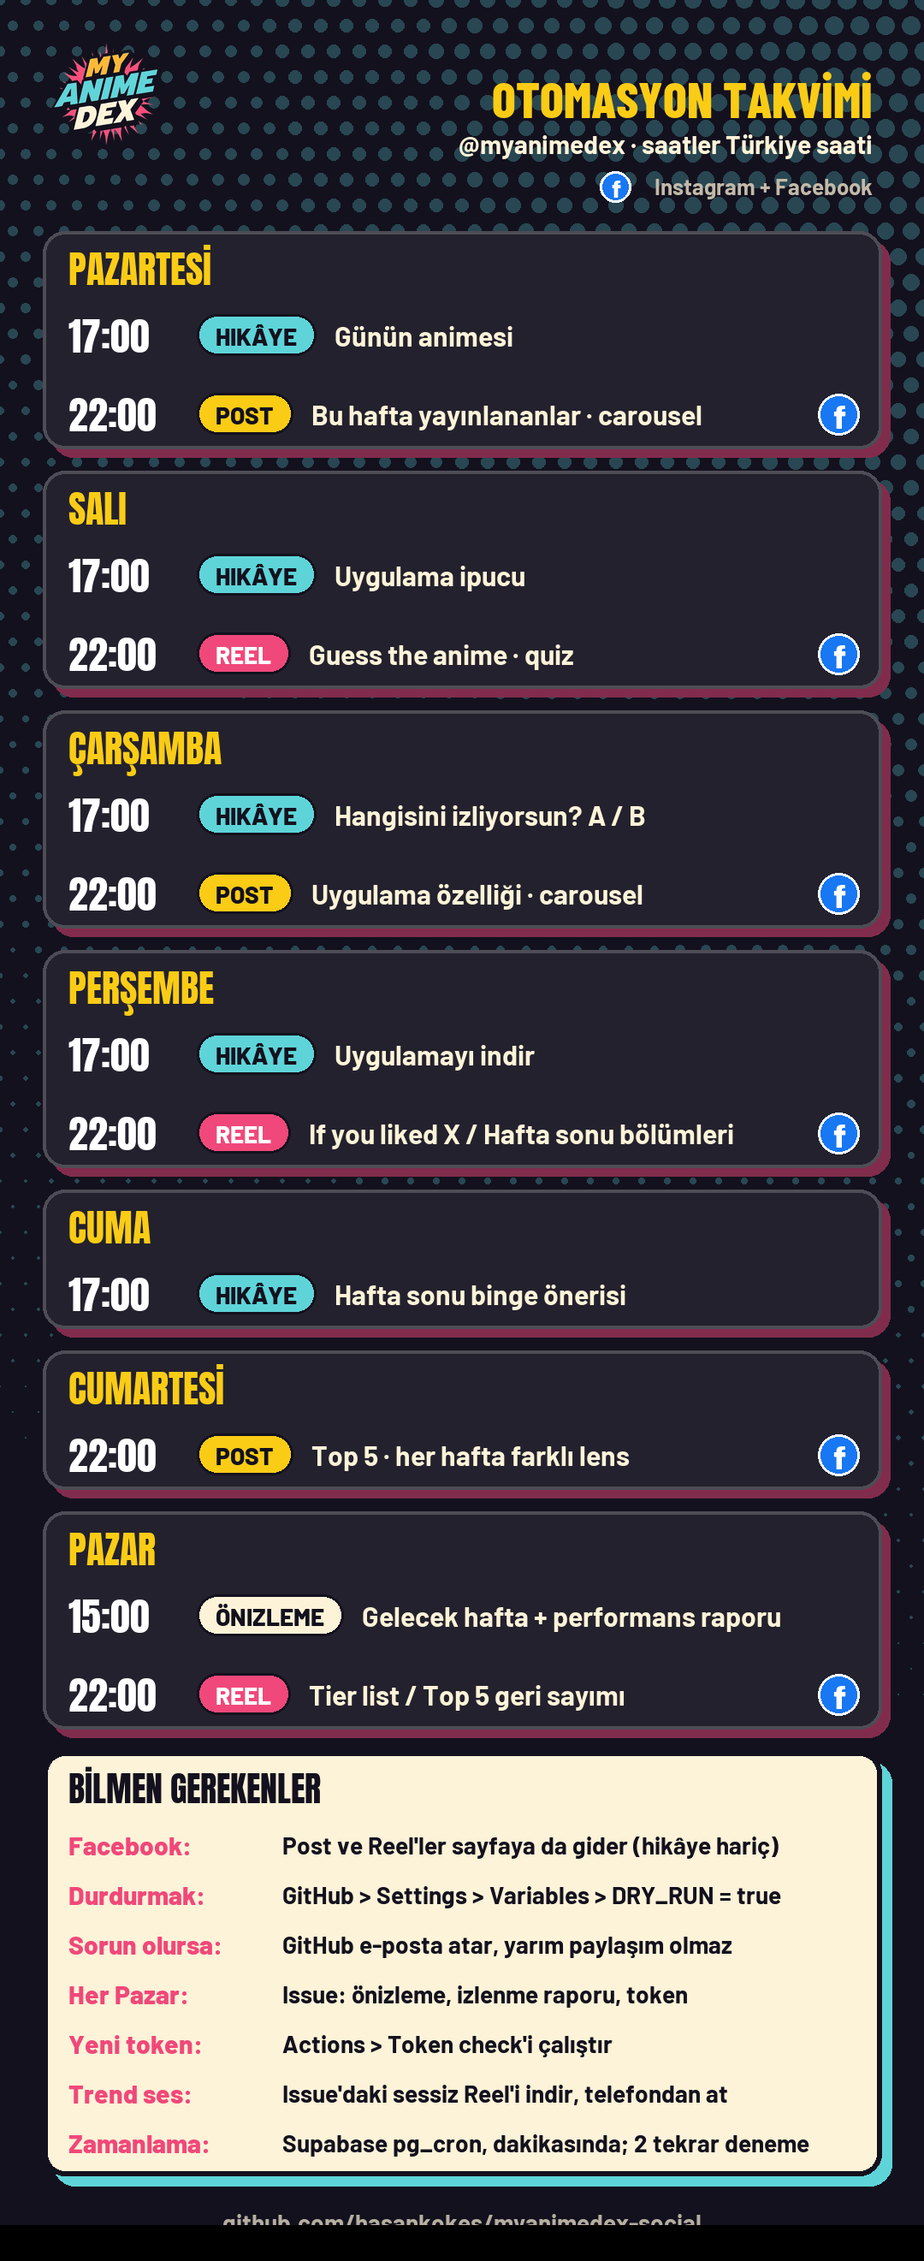
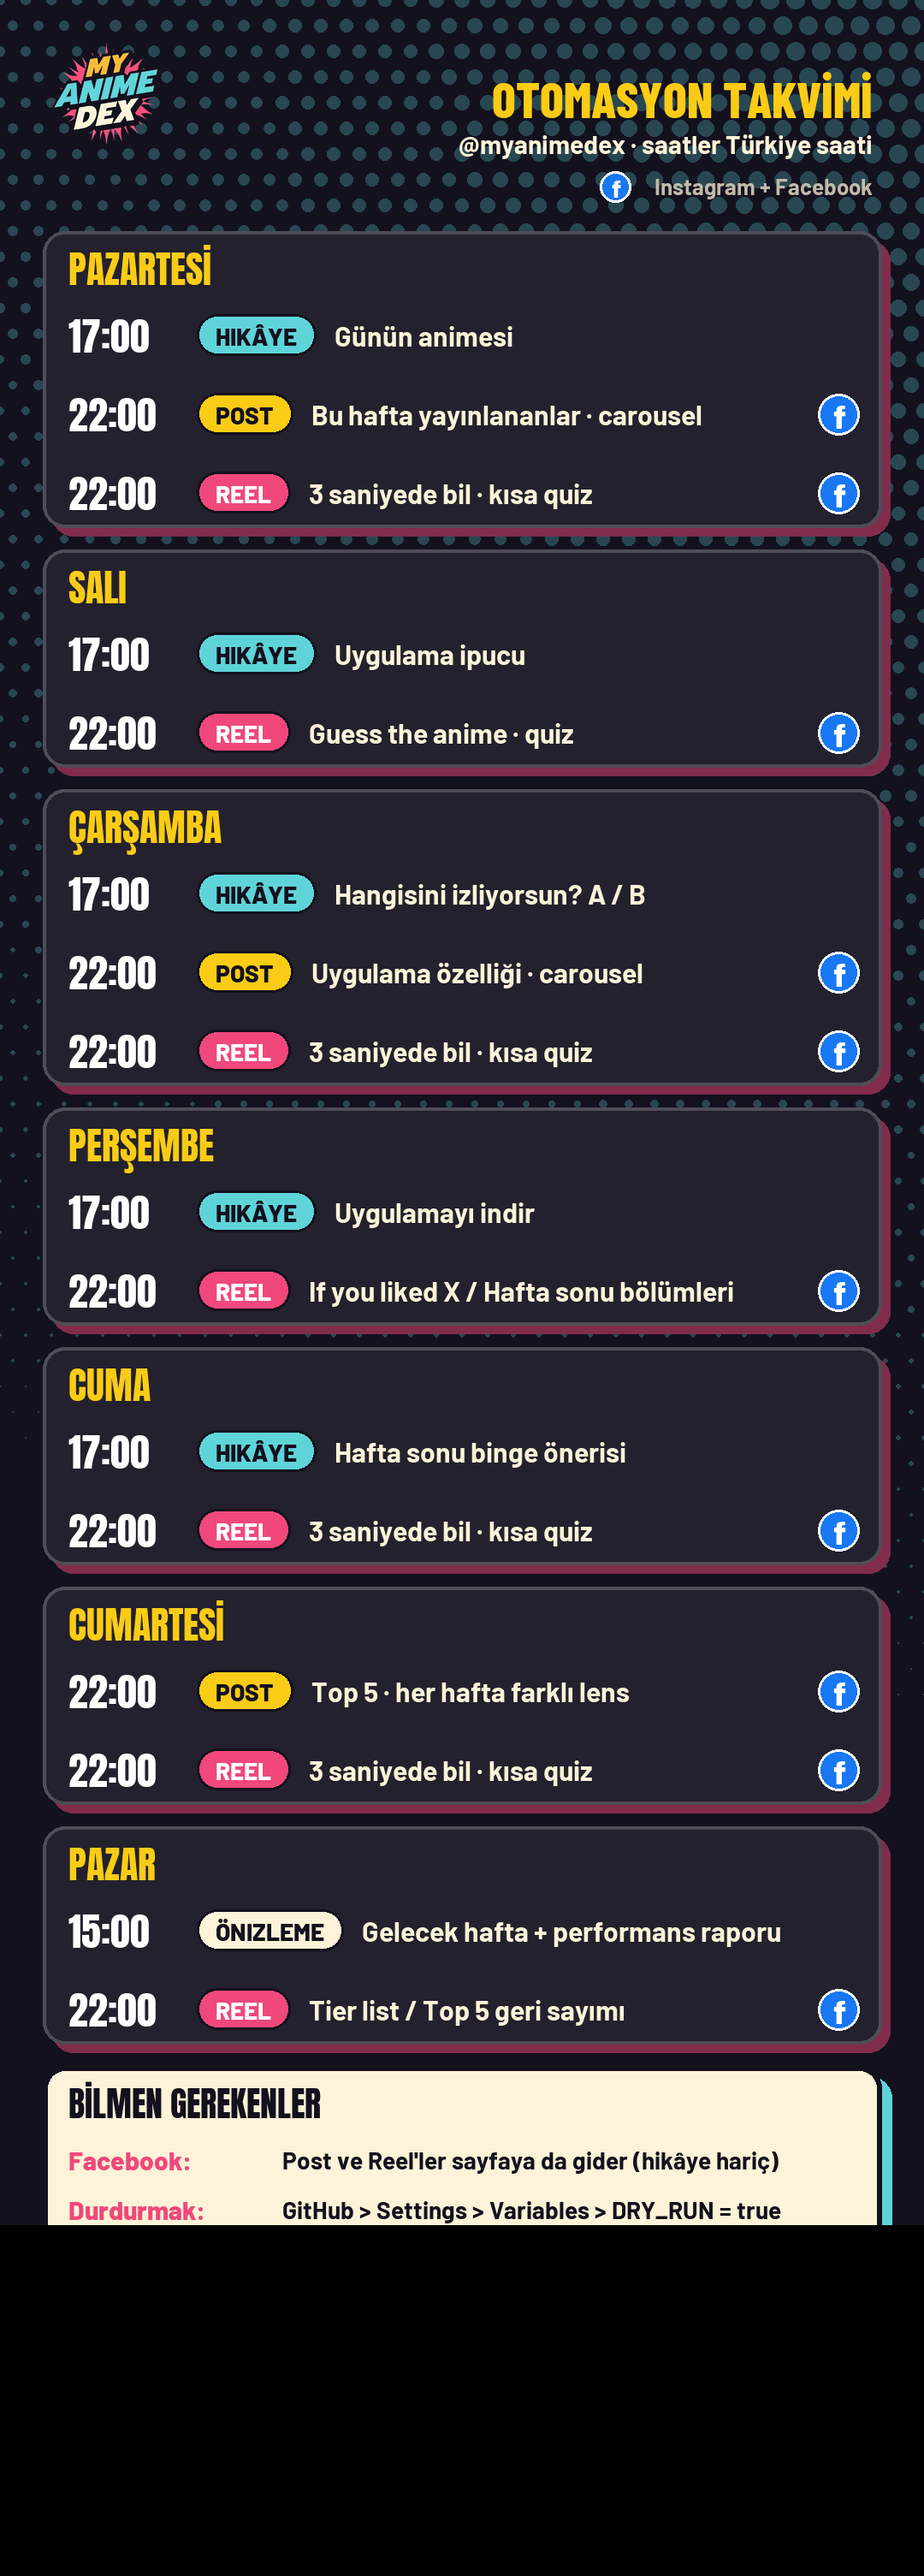
feat: daily reels — 8 s looping 'guess in 3 seconds' quiz on Mon/Wed/Fri/Sat, follow CTA in reel outros
Reels reached ~100-150 accounts with 3-6 s average watch time and no follows; shorter loops
and a follow call-to-action target completion rate and conversions.

diff --git a/src/mad/render/reels.py b/src/mad/render/reels.py
@@ -235,7 +235,8 @@ def outro_scene(headline: str, sub: str, dur=1.6) -> Scene:
     logo = crop_alpha(logo_c)
     head = block_sprite(940, 300, headline, "comic", 150, 80, fill=YELLOW, stroke=8, shadow=(10, 10))
     sub_spr = block_sprite(860, 120, sub, "body_bold", 50, 32, fill=CREAM)
-    chips = [chip_sprite("FREE ON iOS & ANDROID", 44, fill=TEAL), chip_sprite("LINK IN BIO", 44, fill=MAGENTA, fg=WHITE)]
+    chips = [chip_sprite("FOLLOW @MYANIMEDEX", 50, fill=MAGENTA, fg=WHITE, name="display", pad=(30, 14)),
+             chip_sprite("FREE APP · LINK IN BIO", 40, fill=TEAL)]
 
     def draw(t):
         f = bg.copy()
@@ -472,7 +473,8 @@ def _cover_base(m: dict[str, Any], w: int, h: int) -> Image.Image | None:
     return src.crop((left, top, left + w, top + h))
 
 
-def _quiz_round(m: dict[str, Any], i: int, total: int, dur=5.0) -> Scene:
+def _quiz_round(m: dict[str, Any], i: int, total: int, dur=5.0, reveal_at=3.3, head_text: str | None = None,
+                follow: bool = False) -> Scene:
     pw, ph = 640, 900
     base = _cover_base(m, pw, ph)
     if base is None:  # no cover -> typographic card, still guessable from the hint
@@ -483,7 +485,7 @@ def _quiz_round(m: dict[str, Any], i: int, total: int, dur=5.0) -> Scene:
     frame = frame_c.im
     fx, fy = (m.get("focus") or [0.5, 0.4])
     level_fill = {"EASY": TEAL, "MEDIUM": YELLOW, "HARD": MAGENTA}.get(m.get("level"), YELLOW)
-    head = chip_sprite(f"ROUND {i}/{total}  ·  {m.get('level', '')}", 62, fill=level_fill,
+    head = chip_sprite(head_text or f"ROUND {i}/{total}  ·  {m.get('level', '')}", 62, fill=level_fill,
                        fg=WHITE if level_fill == MAGENTA else INK, name="display", pad=(30, 12))
     hint_parts = [str(m.get("seasonYear") or ""), (m.get("genres") or [""])[0],
                   f"{m['episodes']} EPS" if m.get("episodes") else ""]
@@ -493,8 +495,13 @@ def _quiz_round(m: dict[str, Any], i: int, total: int, dur=5.0) -> Scene:
                          shadow=(8, 8), max_lines=2)
     score = score10(m)
     meta = chip_sprite(f"{score}/10  ·  {_fmt_count(m.get('popularity'))} FANS" if score else "", 42, fill=TEAL)
-    reveal_at = 3.3
     px, py = (W - pw) // 2, 470
+    step = reveal_at / 3
+    big = text_sprite("GUESS THE ANIME", "comic", 120, fill=YELLOW, stroke=10, shadow=(10, 10)) if follow else None
+    if big is not None and big.width > 1000:
+        big = big.resize((1000, round(big.height * 1000 / big.width)), Image.LANCZOS)
+    cta = chip_sprite("FOLLOW FOR A NEW ONE EVERY DAY", 50, fill=MAGENTA, fg=WHITE, name="display",
+                      pad=(30, 14)) if follow else None
 
     def view(t):
         if t >= reveal_at:
@@ -515,10 +522,14 @@ def _quiz_round(m: dict[str, Any], i: int, total: int, dur=5.0) -> Scene:
         f = bg.copy()
         f.paste(frame, (px - 12, py - 12), frame)
         f.paste(view(t), (px, py))
-        place(f, head, (W / 2, 330), scale=out_back(seg(t, 0, 0.3)))
+        if big is not None:  # short quiz: the question is readable from the very first frame
+            place(f, big, (W / 2, 200))
+            place(f, head, (W / 2, 360))
+        else:
+            place(f, head, (W / 2, 330), scale=out_back(seg(t, 0, 0.3)))
         if t < reveal_at:
-            k = min(2, int(t / 1.1))
-            place(f, counts[k], (900, 520), scale=out_back(seg(t - k * 1.1, 0, 0.25)))
+            k = min(2, int(t / step))
+            place(f, counts[k], (900, 520), scale=out_back(seg(t - k * step, 0, 0.25)))
             place(f, hint, (W / 2, 1480), alpha=seg(t, 0.6, 0.3))
         else:
             dx, dy = shake(t, reveal_at, seed=i)
@@ -526,7 +537,11 @@ def _quiz_round(m: dict[str, Any], i: int, total: int, dur=5.0) -> Scene:
             place(f, title, (W / 2 + dx, 1480 + 60 * (1 - out_cubic(p)) + dy), alpha=p)
             place(f, meta, (W / 2, 1620), alpha=seg(t, reveal_at + 0.2, 0.3))
             flash(f, t - reveal_at, WHITE)
-        flash(f, t)
+            if cta is not None:
+                p = seg(t, reveal_at + 1.4, 0.3)
+                place(f, cta, (W / 2, 1760 + 40 * (1 - out_cubic(p))), scale=0.8 + 0.2 * out_back(p), alpha=p)
+        if big is None:
+            flash(f, t)
         return f
 
     return dur, draw
@@ -537,8 +552,15 @@ def render_reel_quiz(data: dict[str, Any], out_dir: Path) -> list[Path]:
     scenes = [hook_scene([("GUESS", 330, YELLOW), ("THE ANIME", 200, WHITE)],
                          f"{len(rounds)} ROUNDS  ·  EASY TO HARD", MAGENTA, chip_fill=YELLOW, top=560)]
     scenes += [_quiz_round(m, i, len(rounds)) for i, m in enumerate(rounds, 1)]
-    scenes.append(outro_scene("HOW MANY DID YOU GET?", f"Comment your score /{len(rounds)} · new quiz every Tuesday"))
+    scenes.append(outro_scene("HOW MANY DID YOU GET?", f"Comment your score /{len(rounds)} · follow for a quiz every day"))
     return encode(scenes, out_dir, cover_at=1.3, music_seed=data.get("seed", 0))
+
+
+def render_reel_quick_quiz(data: dict[str, Any], out_dir: Path) -> list[Path]:
+    """~8 s single round with no intro so it loops: the poster is on screen from frame 1."""
+    m = data["rounds"][0]
+    scene = _quiz_round(m, 1, 1, dur=8.2, reveal_at=3.6, head_text="IN 3 SECONDS", follow=True)
+    return encode([scene], out_dir, cover_at=0.9, music_seed=data.get("seed", 0))
 
 
 # ---------------------------------------------------------------- Thursday: If you liked X
@@ -697,6 +719,7 @@ def render_reel_teaser(data: dict[str, Any], out_dir: Path) -> list[Path]:
 
 
 REEL_RENDERERS = {
+    "reel_quick_quiz": render_reel_quick_quiz,
     "reel_quiz": render_reel_quiz,
     "reel_recs": render_reel_recs,
     "reel_tierlist": render_reel_tierlist,

diff --git a/src/mad/planner.py b/src/mad/planner.py
@@ -23,13 +23,14 @@ SCHEDULE: list[tuple[int, str, str | tuple[str, ...]]] = [
     (3, "story", "story_your_pick"),
     (4, "story", "story_download"),
     (5, "story", "story_weekend"),
-    (2, "reel", "reel_quiz"),
+    (1, "reel", "reel_quick_quiz"), (2, "reel", "reel_quiz"), (3, "reel", "reel_quick_quiz"),
+    (5, "reel", "reel_quick_quiz"), (6, "reel", "reel_quick_quiz"),
     (4, "reel", ("reel_recs", "reel_weekend")),
     (7, "reel", ("reel_tierlist", "reel_top5")),
 ]
 POST_KINDS = ["airing_week", "feature", "top5"]
 STORY_KINDS = ["story_anime_of_day", "story_tip", "story_your_pick", "story_download", "story_weekend"]
-REEL_KINDS = ["reel_quiz", "reel_recs", "reel_tierlist", "reel_app_demo", "reel_weekend", "reel_top5", "reel_teaser"]
+REEL_KINDS = ["reel_quick_quiz", "reel_quiz", "reel_recs", "reel_tierlist", "reel_app_demo", "reel_weekend", "reel_top5", "reel_teaser"]
 WEEKDAYS = ["Mon", "Tue", "Wed", "Thu", "Fri", "Sat", "Sun"]
 
 KEEP_FIELDS = ["id", "idMal", "title", "format", "status", "episodes", "season", "seasonYear",
@@ -463,6 +464,24 @@ def build_reel_quiz(ctx: Ctx) -> dict[str, Any]:
             "caption": captions.build("reel_quiz", ctx.seed, fields, tags)}
 
 
+def build_reel_quick_quiz(ctx: Ctx) -> dict[str, Any]:
+    """Daily short reel (~8 s, loops): one zoomed/pixelated poster, 3-2-1, reveal, follow CTA."""
+    import random
+
+    pool = [m for m in anilist.find_media(popularity_greater=100000, sort=["POPULARITY_DESC"], pages=5)
+            if (m.get("coverImage") or {}).get("extraLarge")]
+    pool = _scored(pool)  # one per franchise
+    used = _used_recently(ctx.state, "quiz_used", ctx.day, 180) | ctx.taken
+    fresh = [m for m in pool if m["id"] not in used] or pool
+    rnd = random.Random(ctx.day.toordinal() * 7 + 1)
+    m = rnd.choice(fresh[: max(1, round(len(fresh) * 0.7))])  # skip the most obscure 30%
+    snap = snapshot(m)
+    snap["focus"] = [round(rnd.uniform(0.3, 0.7), 2), round(rnd.uniform(0.25, 0.6), 2)]
+    tags = captions.hashtags(ctx.season, ctx.year, None, extra=["#animequiz"], season_tag=False)
+    return {"data": {"rounds": [snap], "seed": ctx.seed}, "anime_ids": [m["id"]],
+            "caption": captions.build("reel_quick_quiz", ctx.seed, {}, tags)}
+
+
 RECS_QUERY = """
 query ($id: Int) {
   Media(id: $id) {
@@ -552,6 +571,7 @@ BUILDERS: dict[str, Callable[[Ctx], dict[str, Any]]] = {
     "reel_weekend": build_reel_weekend,
     "reel_top5": build_reel_top5,
     "reel_teaser": build_reel_teaser,
+    "reel_quick_quiz": build_reel_quick_quiz,
     "reel_quiz": build_reel_quiz,
     "reel_recs": build_reel_recs,
     "reel_tierlist": build_reel_tierlist,

diff --git a/scripts/make_schedule_image.py b/scripts/make_schedule_image.py
@@ -6,12 +6,14 @@ from mad.config import ROOT
 from mad.render.base import CREAM, INK, MAGENTA, TEAL, WHITE, YELLOW, Canvas, mix
 
 DAYS = [
-    ("PAZARTESİ", [("17:00", "Hikâye", "Günün animesi"), ("22:00", "Post", "Bu hafta yayınlananlar · carousel")]),
+    ("PAZARTESİ", [("17:00", "Hikâye", "Günün animesi"), ("22:00", "Post", "Bu hafta yayınlananlar · carousel"),
+                   ("22:00", "Reel", "3 saniyede bil · kısa quiz")]),
     ("SALI", [("17:00", "Hikâye", "Uygulama ipucu"), ("22:00", "Reel", "Guess the anime · quiz")]),
-    ("ÇARŞAMBA", [("17:00", "Hikâye", "Hangisini izliyorsun? A / B"), ("22:00", "Post", "Uygulama özelliği · carousel")]),
+    ("ÇARŞAMBA", [("17:00", "Hikâye", "Hangisini izliyorsun? A / B"), ("22:00", "Post", "Uygulama özelliği · carousel"),
+                  ("22:00", "Reel", "3 saniyede bil · kısa quiz")]),
     ("PERŞEMBE", [("17:00", "Hikâye", "Uygulamayı indir"), ("22:00", "Reel", "If you liked X / Hafta sonu bölümleri")]),
-    ("CUMA", [("17:00", "Hikâye", "Hafta sonu binge önerisi")]),
-    ("CUMARTESİ", [("22:00", "Post", "Top 5 · her hafta farklı lens")]),
+    ("CUMA", [("17:00", "Hikâye", "Hafta sonu binge önerisi"), ("22:00", "Reel", "3 saniyede bil · kısa quiz")]),
+    ("CUMARTESİ", [("22:00", "Post", "Top 5 · her hafta farklı lens"), ("22:00", "Reel", "3 saniyede bil · kısa quiz")]),
     ("PAZAR", [("15:00", "Önizleme", "Gelecek hafta + performans raporu"), ("22:00", "Reel", "Tier list / Top 5 geri sayımı")]),
 ]
 NOTES = [

diff --git a/src/mad/report.py b/src/mad/report.py
@@ -19,7 +19,7 @@ METRICS = {
 }
 FALLBACK = ["reach", "likes", "comments", "saved", "shares"]
 FAMILY = {
-    "reel_quiz": "Quiz reel", "reel_recs": "Recs reel", "reel_tierlist": "Tier list reel",
+    "reel_quick_quiz": "Short quiz reel", "reel_quiz": "Quiz reel", "reel_recs": "Recs reel", "reel_tierlist": "Tier list reel",
     "reel_top5": "Top 5 reel", "reel_weekend": "Weekend reel", "reel_app_demo": "App demo reel",
     "reel_teaser": "Teaser reel", "top5": "Top 5 post", "airing_week": "Airing post", "feature": "Feature post",
 }

diff --git a/src/mad/state.py b/src/mad/state.py
@@ -59,7 +59,7 @@ def record_publish(state: dict[str, Any], slot_key: str, slot: dict[str, Any], m
         state["anime"][str(aid)] = day
     if slot["kind"] == "feature":
         state["features"]["last_id"] = slot["data"]["feature"]["id"]
-    elif slot["kind"] == "reel_quiz":
+    elif slot["kind"] in ("reel_quiz", "reel_quick_quiz"):
         for r in slot["data"]["rounds"]:
             state["quiz_used"][str(r["id"])] = day
     elif slot["kind"] == "reel_recs":

diff --git a/src/mad/__main__.py b/src/mad/__main__.py
@@ -32,6 +32,7 @@ KIND_LABELS = {
     "reel_weekend": "Reel · Episodes this weekend",
     "reel_top5": "Reel · Top 5 countdown",
     "reel_teaser": "Reel · App teaser",
+    "reel_quick_quiz": "Reel · Guess in 3 seconds (short quiz)",
     "reel_quiz": "Reel · Guess the anime (quiz)",
     "reel_recs": "Reel · If you liked X, watch these 3",
     "reel_tierlist": "Reel · Season tier list",

diff --git a/README.md b/README.md
@@ -38,6 +38,7 @@
 
 Takipçi kazandıran formatlar öncelikli: quiz (yorum), "If you liked X" (kaydetme), tier list (tartışma). Uygulama tanıtımı feed'de haftada bir (Çarşamba); uygulama demosu Reel'i artık elle (`reel_app_demo`).
 
+- **Kısa quiz (Pzt/Çar/Cum/Cmt)**: ~8 sn, tek tur, giriş yok (döngüye girer): ilk karede soru ve pikselli poster, 3-2-1, cevap, en sonda "follow" çağrısı. Kısa video tamamlanma oranını, dolayısıyla erişimi artırır. Aynı anime 180 gün tekrar sorulmaz (quiz ile ortak `quiz_used`).
 - **Quiz**: popülerliği yüksek animelerden 3 tur (kolay/orta/zor), aynı anime 180 gün tekrar sorulmaz (`quiz_used`). Cevaplar açıklamada yazmaz, sadece videoda açılır.
 - **If you liked X**: 200K+ fanlı bitmiş bir anime ve AniList topluluğunun en çok oyladığı 3 öneri (aynı seri hariç). Aynı çıpa 1 yıl tekrar etmez.
 - **Tier list**: sezonun en popüler 12 animesi, AniList puanına göre S (85+), A (80+), B (75+), C (70+), D.
